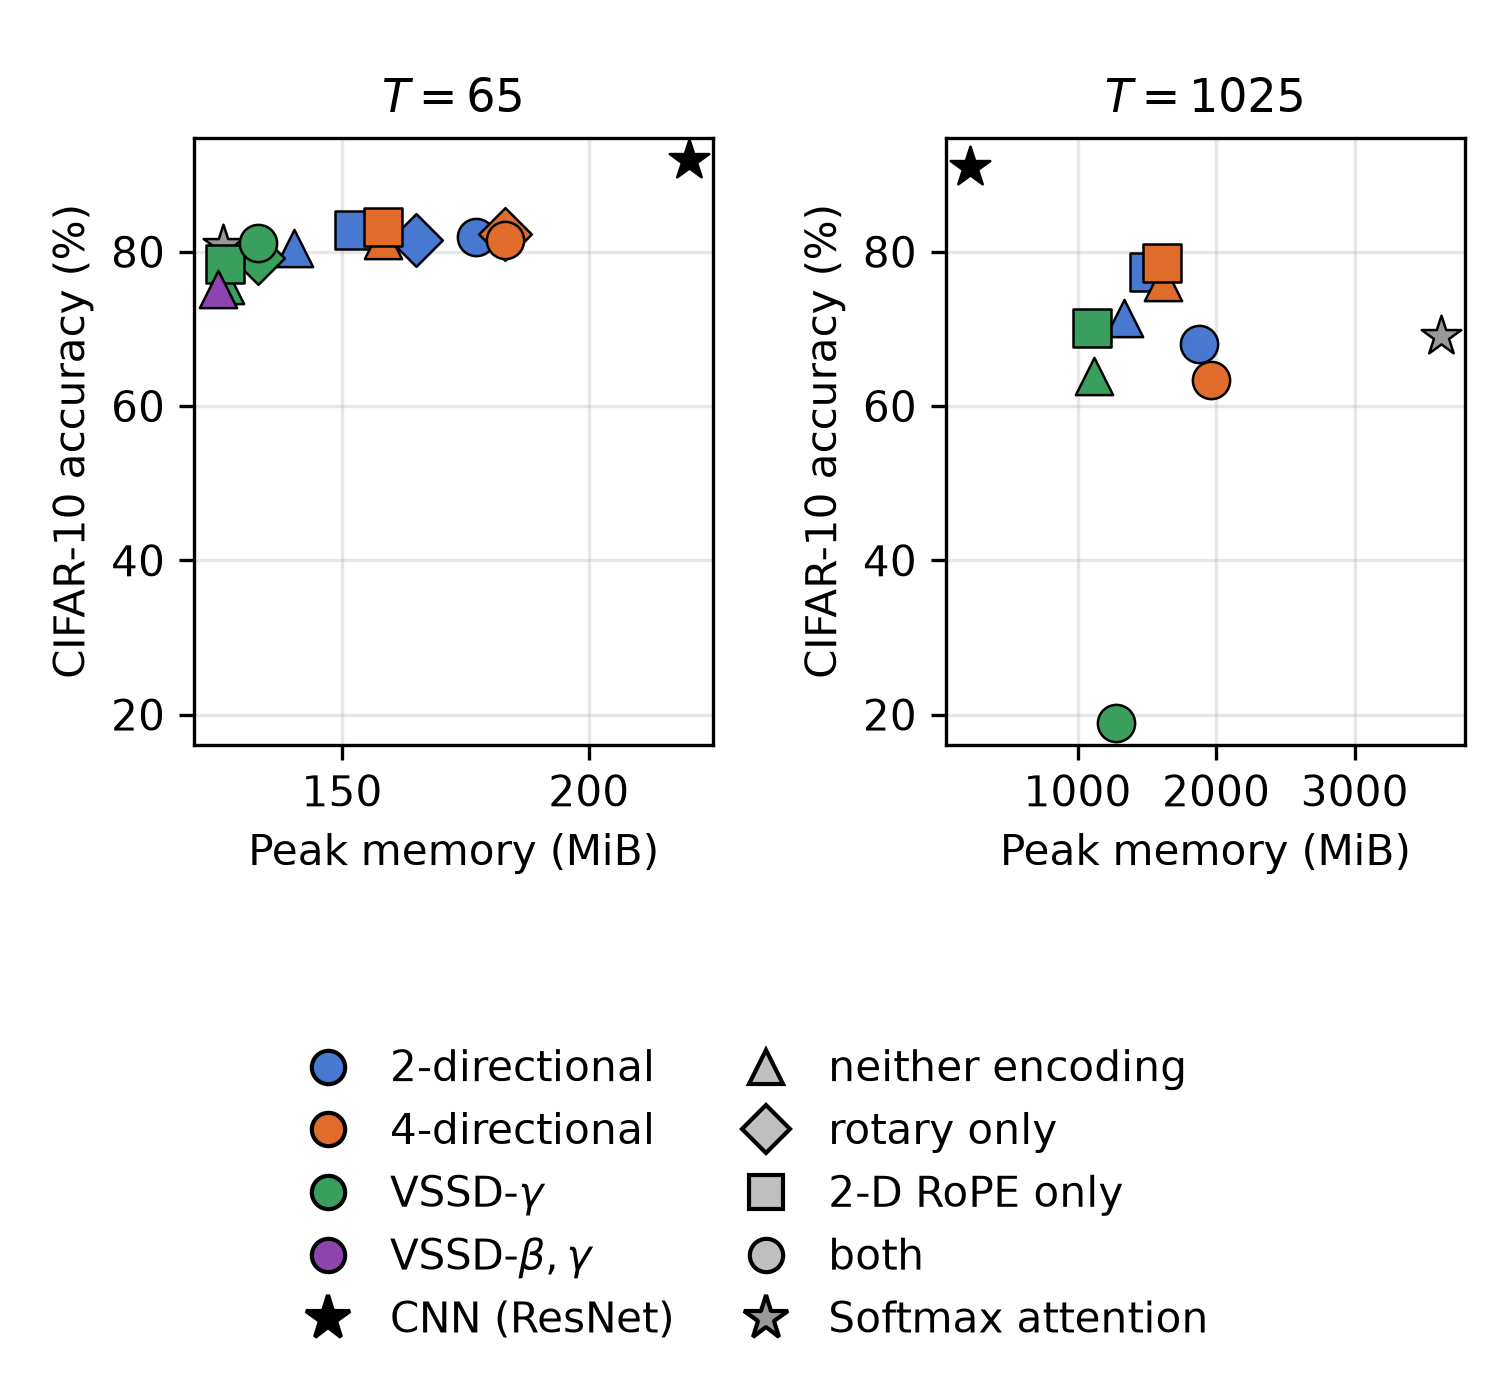
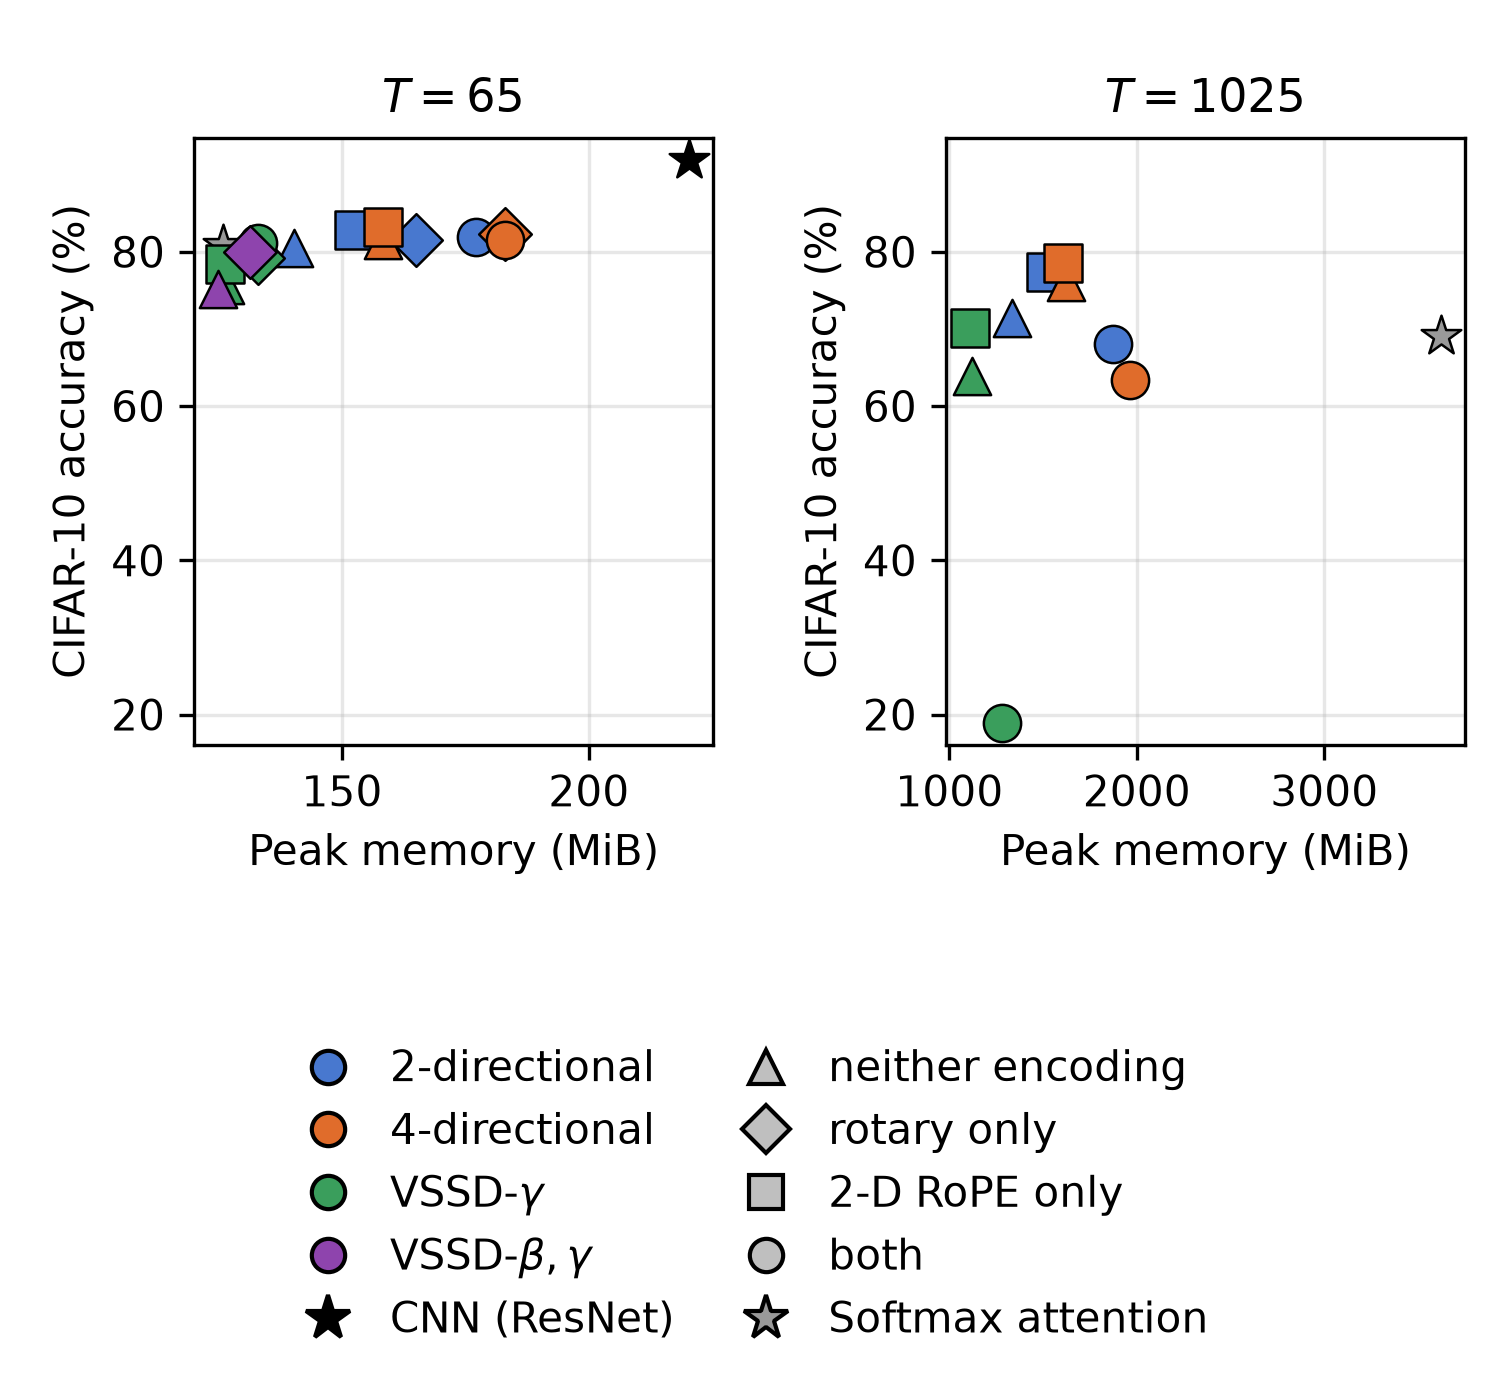
fig 1: drop the CNN from the T=1025 panel
A ResNet does not tokenise. Its "T=1025" entry is the same network as its "T=65" one
-- the patch size it was nominally run at changes nothing about it -- so placing it on
a sequence-length panel invites reading its memory as a point on the same scaling
curve as the attention operators, which is the one question that panel asks. The
right panel is now what it is for: how peak memory grows with token count, state-space
operators against softmax attention.

The CNN stays in the T=65 panel, where it is an accuracy reference rather than a
scaling claim, and in Table 1, where its numbers are labelled rather than positioned.
The caption says why it is absent, so the gap reads as deliberate.

While here: the plotted set is now computed once and the shared accuracy range
derived from exactly it. Previously the range came from `rows`, so an excluded point
could still stretch an axis and leave space no marker explains -- which this change
would have introduced.

38 pages, 0 errors, 0 undefined references, 76 tests pass; plot 359.9pt against the
360pt target.

diff --git a/scripts/make_ablation_table.py b/scripts/make_ablation_table.py
@@ -61,6 +61,15 @@ OP_LABELS = {
 }
 BASE_COLOURS = {"CNN (ResNet)": "black", "Softmax attention": "0.6"}
 
+# Models with no token axis, omitted from the T=1025 panel of the plot. A ResNet does
+# not tokenise, so its "T=1025" entry is the same network as its "T=65" one -- the
+# patch size it was nominally run at changes nothing about it. Plotting it against a
+# sequence length invites reading its memory as a point on the same scaling curve as
+# the attention operators, when the whole question that panel asks is how cost grows
+# with token count. It stays in the T=65 panel, where it is an accuracy reference,
+# and in the table, where its numbers are labelled rather than positioned.
+TOKEN_FREE = {"CNN (ResNet)"}
+
 # (operator, encoding, variant, result dir for T=65, result dir for T=1025)
 # Only post-pairing-fix directories are listed for cells that enable both encodings.
 ROWS = [
@@ -188,21 +197,29 @@ def _legend_handles() -> list[Line2D]:
 def write_plot(rows) -> None:
     fig, axes = plt.subplots(1, 2, figsize=(FIG_W, 4.6))
 
+    # Decide what is drawn first, then derive the axis range from exactly that. If the
+    # range were computed over `rows` instead, a point that is excluded below could
+    # still stretch the axis, leaving empty space no marker explains.
+    plotted = [(idx, op, enc, d)
+               for idx in (0, 1)
+               for op, enc, a, b in rows
+               for d in ((a, b)[idx],)
+               if d is not None and not (idx == 1 and op in TOKEN_FREE)]
+
     # One accuracy scale across both panels: the panels exist to be compared, and
     # per-panel autoscaling silently rescales that comparison -- a point sitting
     # higher in the right panel could be the lower accuracy. The x axes stay
     # independent on purpose; peak memory genuinely differs by ~20x between the two
     # sequence lengths, so a shared memory axis would flatten the T=65 panel to a
     # single vertical line.
-    accs = [d["acc"] for _op, _enc, a, b in rows for d in (a, b) if d is not None]
+    accs = [d["acc"] for _i, _op, _enc, d in plotted]
     pad = 0.04 * (max(accs) - min(accs))
     ylim = (min(accs) - pad, max(accs) + pad)
 
     for ax, idx, title in ((axes[0], 0, r"$T=65$"), (axes[1], 1, r"$T=1025$")):
         ax.set_ylim(*ylim)
-        for op, enc, a, b in rows:
-            d = (a, b)[idx]
-            if d is None:
+        for i, op, enc, d in plotted:
+            if i != idx:
                 continue
             base = op in BASE_COLOURS
             ax.scatter(d["mem"], d["acc"], s=100 if base else 80,

diff --git a/doc/attention/mamba3_attention.tex b/doc/attention/mamba3_attention.tex
@@ -2334,7 +2334,10 @@ $T{=}65$ memory is almost flat across operators and the plot is effectively an
 accuracy ranking; at $T{=}1025$ the state-space operators separate from softmax
 attention horizontally, which is the property the linear-time recurrence buys. The
 shared axis is stretched by one point, VSSD-$\gamma$ with both encodings at $18.94$
-(\S\ref{sec:ablation}), which compresses the rest.}
+(\S\ref{sec:ablation}), which compresses the rest. The CNN appears only in the
+$T{=}65$ panel: it does not tokenise, so it has no token count for the right panel to
+place it at, and its memory does not sit on the same scaling curve the panel is
+about. Its numbers at both settings remain in Table~\ref{tab:ablation}.}
 \label{fig:ablation-mem-acc}
 \end{figure}
 

diff --git a/doc/attention/ablation_table.tex b/doc/attention/ablation_table.tex
@@ -23,7 +23,7 @@ VSSD-$\gamma$ & --- & 2.71 & 75.76 & 9.5 & 126 & 63.88 & 166.3 & 1119 \\
  & both & 2.74 & 81.18 & 12.2 & 133 & 18.94 & 266.5 & 1281 \\
 \hline
 VSSD-$\beta,\gamma$ & --- & 2.93 & 75.12 & 11.8 & 125 & -- & -- & -- \\
- & rotary & -- & -- & -- & -- & -- & -- & -- \\
+ & rotary & 2.97 & 79.99 & 12.4 & 131 & -- & -- & -- \\
  & 2-D RoPE & -- & -- & -- & -- & -- & -- & -- \\
  & both & -- & -- & -- & -- & -- & -- & -- \\
 \hline
